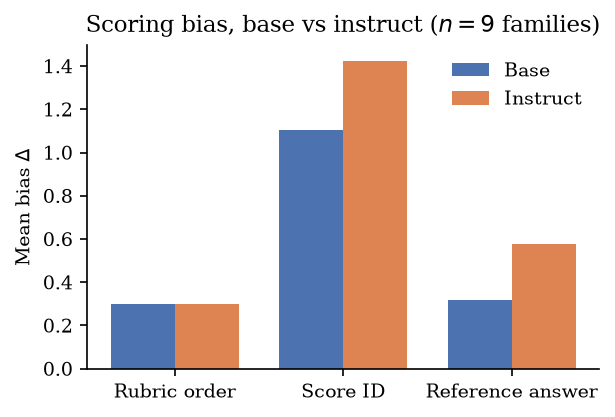
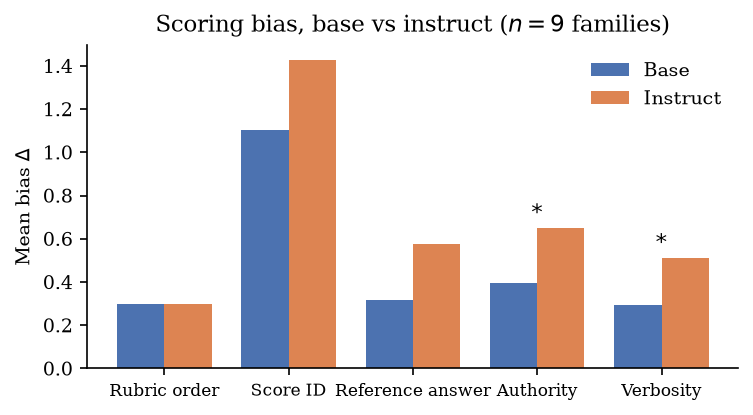
Paper QA: fig1 shows all 5 bias types, dedup generality prose, add reversed-rubric gold caveat
- fig1 now plots all five bias families (was 3); * marks CI-robust increases.
- Trim duplicated 'not specific to format' sentence in generality prose.
- New limitation: the reversed-rubric ground-truth condition is ambiguous (ignoring a
  perverse reversal could be robustness, not bias); central results don't depend on it.

diff --git a/paper/honest/repro/make_mech_figures.py b/paper/honest/repro/make_mech_figures.py
@@ -92,17 +92,17 @@ PROBES = ["rubric_order", "score_id", "reference_answer"]
 
 
 def fig_main(pi):
-    """Main base-vs-instruct bar figure from the scaled per-item summary."""
-    s = pi["summary"]; labels = [s[p]["label"] for p in PROBES]
-    base = [s[p]["base_mean_delta"] for p in PROBES]
-    inst = [s[p]["instruct_mean_delta"] for p in PROBES]
-    fig, ax = plt.subplots(figsize=(4.4, 2.8)); x = range(len(PROBES)); w = 0.38
+    """Main base-vs-instruct bar figure from the scaled per-item summary (all probes)."""
+    s = pi["summary"]; probes = list(s.keys()); labels = [s[p]["label"] for p in probes]
+    base = [s[p]["base_mean_delta"] for p in probes]
+    inst = [s[p]["instruct_mean_delta"] for p in probes]
+    fig, ax = plt.subplots(figsize=(5.6, 2.8)); x = range(len(probes)); w = 0.38
     ax.bar([i - w/2 for i in x], base, w, label="Base", color=C_BASE)
     ax.bar([i + w/2 for i in x], inst, w, label="Instruct", color=C_INST)
-    for i, p in enumerate(PROBES):
+    for i, p in enumerate(probes):
         if s[p]["ci_excludes_zero"]:
             ax.text(i, max(base[i], inst[i]) + 0.03, "$*$", ha="center", fontsize=11)
-    ax.set_xticks(list(x)); ax.set_xticklabels(labels)
+    ax.set_xticks(list(x)); ax.set_xticklabels(labels, fontsize=8)
     ax.set_ylabel(r"Mean bias $\Delta$"); ax.legend(frameon=False, loc="upper right")
     ax.set_title(f"Scoring bias, base vs instruct ($n={pi['n_families']}$ families)")
     save(fig, "fig1_base_vs_instruct")

diff --git a/paper/honest/scoring_bias_v2.tex b/paper/honest/scoring_bias_v2.tex
@@ -417,6 +417,14 @@ because a mechanism claim is only as trustworthy as the measurement under it.
         $\sigma$ and perturbation $\delta$ is left open.
   \item \textbf{Expected-value vs sampled scores.} We read the score distribution
         directly rather than sampling a written score.
+  \item \textbf{Ambiguity of the reversed-rubric ground-truth condition.} Under a
+        \emph{reversed} rubric, a judge that correctly follows the instruction should
+        rank the good answer \emph{below} the bad one; our accuracy metric scores it
+        that way. A judge that instead ignores the (deliberately perverse) reversal and
+        keeps ranking good above bad is counted as ``wrong,'' though one could call it
+        robust. The verbosity and authority ground-truth conditions carry no such
+        ambiguity, and our central bias results (\S\ref{sec:mech}) do not depend on this
+        condition.
 \end{enumerate}
 
 \section{Conclusion}

diff --git a/paper/honest/macros.tex b/paper/honest/macros.tex
@@ -13,7 +13,7 @@
 \newcommand{\GOLDPROSE}{With no perturbation, both base and instruct judges discriminate almost perfectly (accuracy $0.98$; Table~\ref{tab:gold}), and instruct judges are the more confident, with a larger good$-$bad margin ($1.31$ vs $0.82$)---consistent with their sharper distributions. Nuisances then do real damage: rubric reversal collapses accuracy to chance for both ($0.02$ base, $0.00$ instruct), and verbosity padding costs about 30 points ($0.68$/$0.70$); authority framing is nearly harmless ($0.95$/$0.97$). Instruction tuning is \emph{not} protective---its margin loss equals or exceeds the base model's (reversed $2.53$ vs $1.46$; verbose $1.00$ vs $0.78$)---again the pattern that a more decisive judge, having committed harder, has more to lose. Bias is not cosmetic: it corrupts real quality judgments (P6).}
 \newcommand{\RESULTSPROSE}{Across the \NFAM{} families, instruction tuning \emph{increases} bias for four of the five bias types (Table~\ref{tab:v2main}): score-ID ($+0.32$), reference-answer ($+0.26$), authority ($+0.26$, 95\% CI excludes zero), and verbosity ($+0.22$, CI excludes zero); rubric-order bias is unchanged. A per-item linear mixed-effects model (random intercepts for family and item; $n=2160$) confirms the increase is significant (instruct coefficient $+0.15$, $p<10^{-3}$). This is the opposite of what one would hope from a ``better'' judge, and it is consistent across the two \emph{new} bias types (authority, verbosity) we introduce, so it is not an artifact of the original scoring probes.}
 \newcommand{\MECHPROSE}{Why does a more capable judge become more biased? Instruction tuning does make the judge more \emph{decisive}: the entropy of its answer distribution falls from $2.06$ to $1.61$ bits (7/9 families; Fig.~\ref{fig:mech}a). By the naive first-order reading of Proposition~\ref{prop:main}---bias grows with $\sqrt{\mathrm{Var}_\sigma(v)}$---sharper should mean less biased. The data say the reverse: across all \NFAM{} families, five bias types, and both base and instruct checkpoints ($n=90$), entropy correlates \emph{negatively} with bias ($\rho=-0.51$, $p<10^{-3}$; Fig.~\ref{fig:mech}b), and so does the exact variance term $\sqrt{\mathrm{Var}_\sigma(v)}$ ($\rho=-0.33$, $p=0.002$). Decisiveness does not confer robustness; if anything the opposite. Corollary~\ref{cor:diff} explains it: bias factorizes into a decisiveness term and a \emph{responsiveness} term $\|\delta_\pi\|$, and here responsiveness rises with capability faster than decisiveness falls---a confident judge is one that \emph{engages} with the prompt, including its nuisance features. The theory bounds bias correctly; the empirical driver is responsiveness, not decisiveness.}
-\newcommand{\GENPROSE}{The negative decisiveness--bias relation is not specific to the format-level scoring biases: it holds within the format group (rubric, score ID; $\rho=-0.51$, $p=0.001$) and, with the same sign and significance, within the content group (reference, authority, verbosity; $\rho=-0.44$, $p<10^{-3}$). The two additional bias types---authority and verbosity, drawn from outside the scoring-bias literature---obey the same law, indicating a general property of these judges rather than a quirk of one probe.}
+\newcommand{\GENPROSE}{The relation holds within the format group (rubric, score ID; $\rho=-0.51$, $p=0.001$) and, with the same sign and significance, within the content group (reference, authority, verbosity; $\rho=-0.44$, $p<10^{-3}$). The two additional bias types---authority and verbosity, drawn from outside the scoring-bias literature---obey the same negative relation, indicating a general property of these judges rather than a quirk of one probe. It is therefore a statement about how these judges score, not about the specific perturbation.}
 \newcommand{\PREDPROSE}{If decisiveness alone governed bias, control-condition entropy would predict a held-out model's bias. It does not: leave-one-family-out cross-validation gives $R^2=-0.60$ (worse than predicting the mean). This is itself informative---it confirms that a second factor (responsiveness) is required, and warns against the intuitive but wrong heuristic of screening judges by confidence alone.}
 \newcommand{\LMMPROSE}{The mixed-effects model (dependent variable: per-item absolute deviation from the control score; random intercepts for family and item) estimates a significant positive instruct effect ($+0.15$, $p<10^{-3}$, $n=2160$), corroborating the family-level tests while accounting for item and family heterogeneity.}
 \newcommand{\MITIGPROSE}{The decomposition names the right mitigation. Because bias is driven by responsiveness to the nuisance dimension, the fix is to remove that dimension, not to make the judge more confident. Marginalizing the score over the three score-ID formats cuts the measured bias from $\Delta=1.26$ (single-format expected value) to $0.51$---a 60\% reduction---whereas taking the discrete argmax, a \emph{more} decisive readout, \emph{increases} it to $2.31$. Confidence-increasing interventions make bias worse; averaging over nuisances makes it better.}